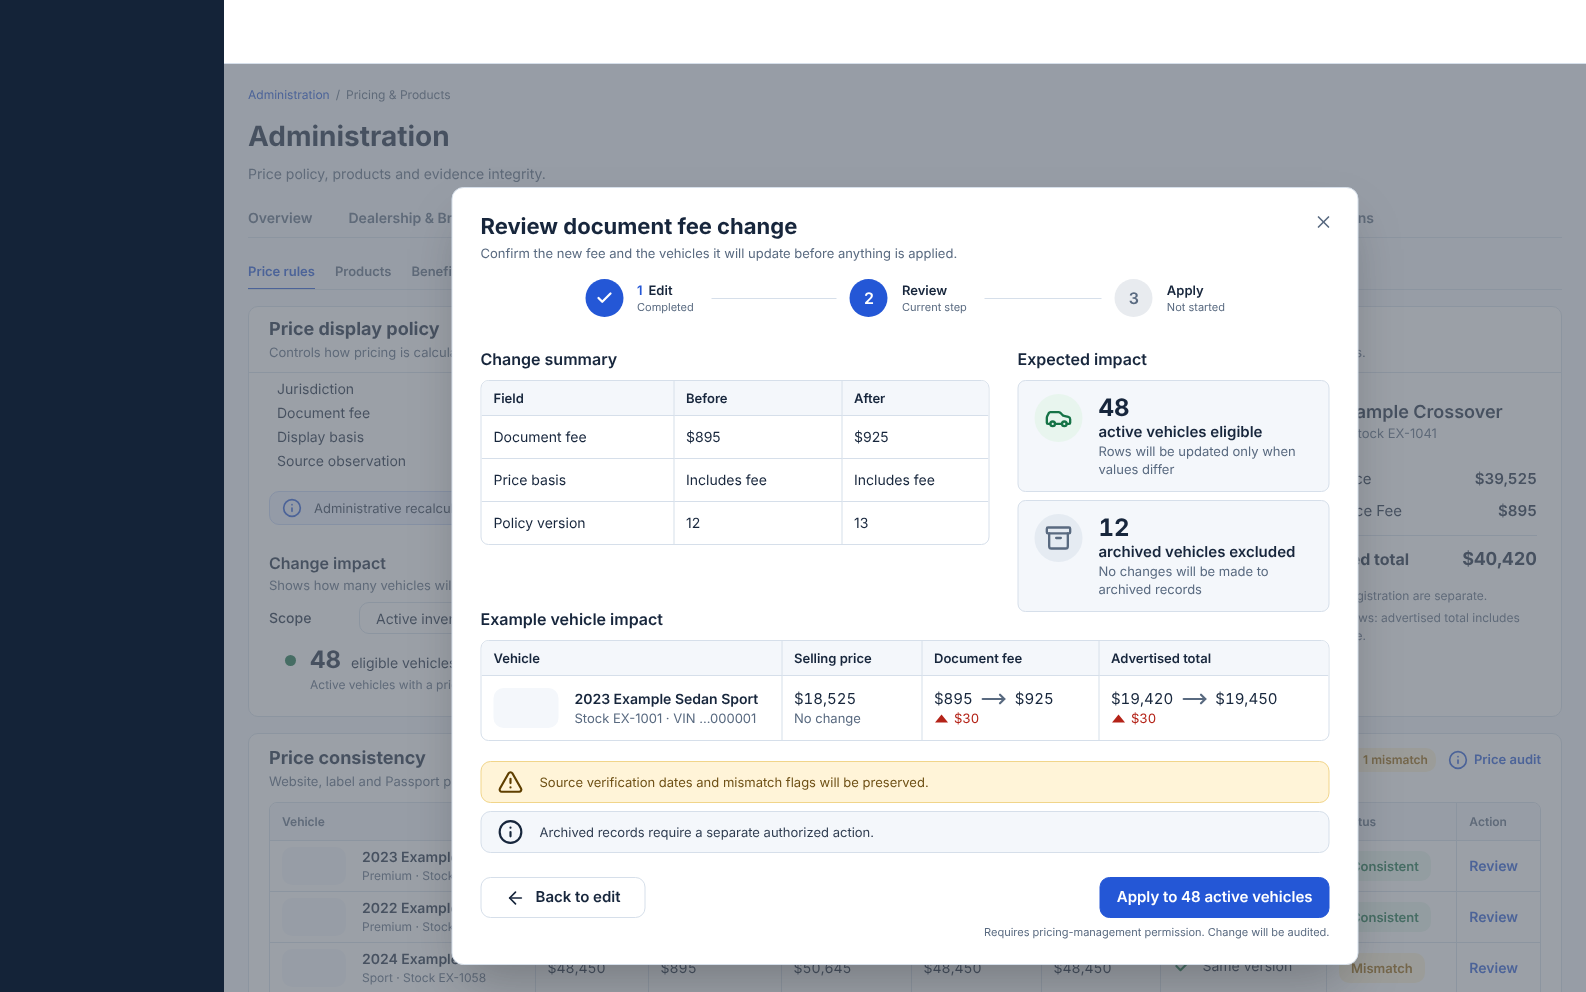
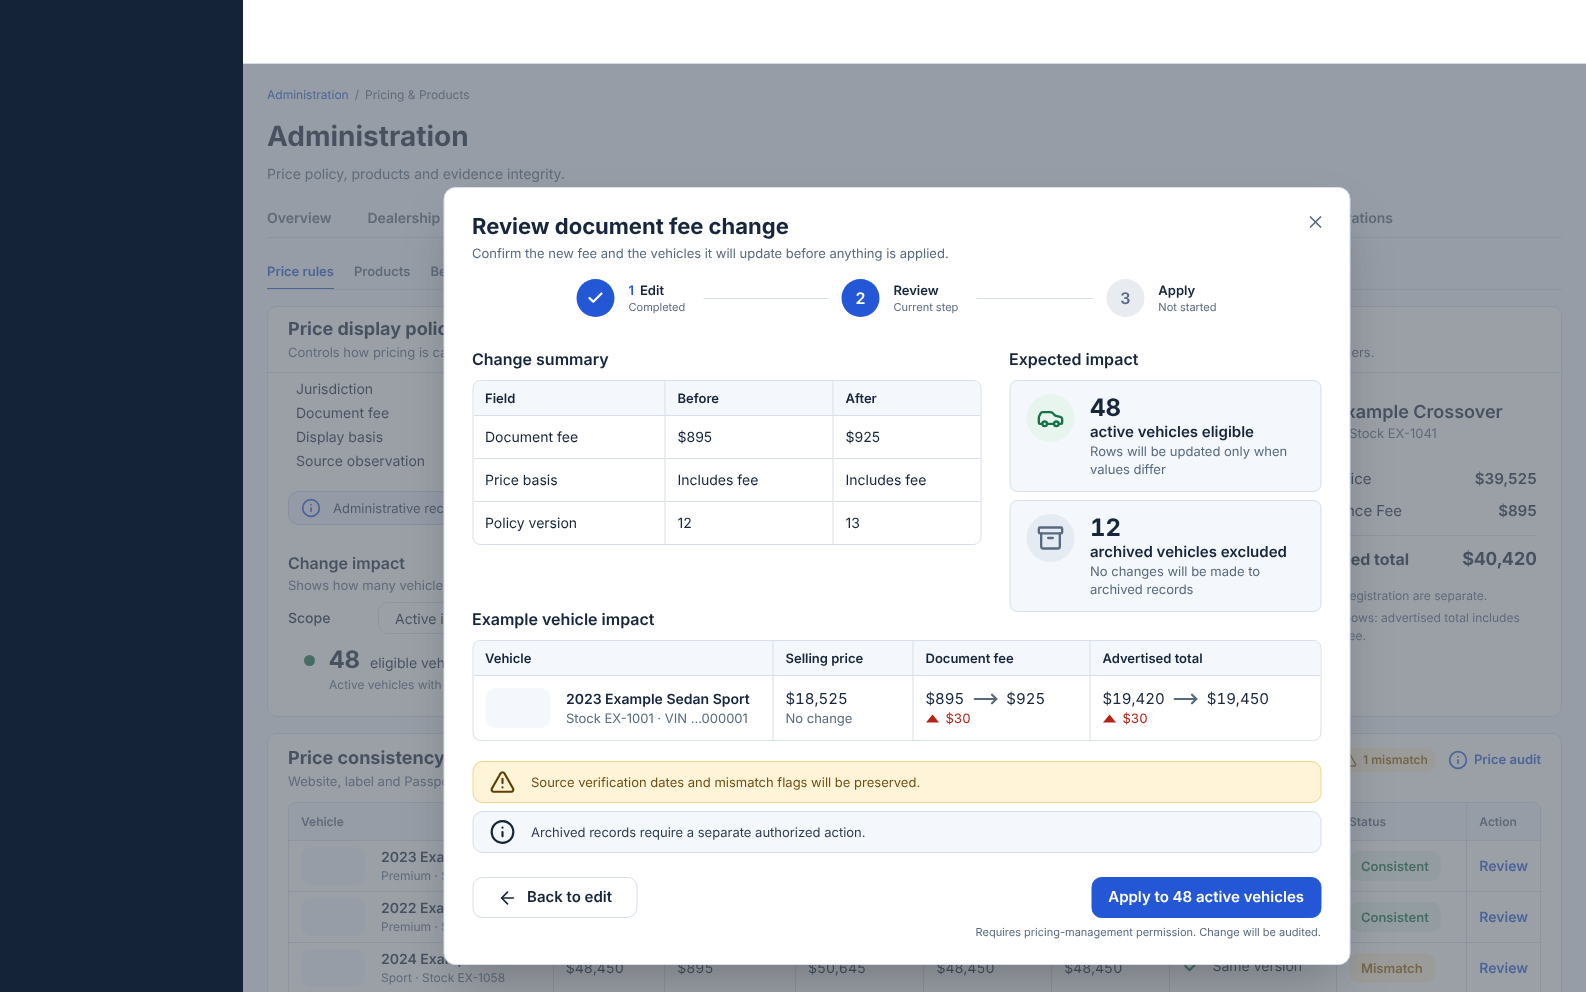
Size the fixture rail to each mock and offset the fee review as drawn
- The mocks draw their rail between 217 and 264px; landmarks.json carries each width, the fixture page draws its stand-in at it and the content region starts past it
- An empty landmark set reads as not declared instead of passing
- The fee review dialog sits 18px left of the content column centre on desktop, as the reference draws it

diff --git a/src/pages/admin/AdminDesignFixture.tsx b/src/pages/admin/AdminDesignFixture.tsx
@@ -1,5 +1,5 @@
 import { Suspense } from "react";
-import { useParams } from "react-router-dom";
+import { useParams, useSearchParams } from "react-router-dom";
 import { AdminFixtureProvider } from "@/lib/admin/dataSource";
 import { ADMIN_SECTIONS, resolveAdminTab } from "@/lib/admin/sections";
 import { AdminShell } from "@/components/admin/v2/AdminShell";
@@ -13,6 +13,10 @@ import { ADMIN_CHILD_ROUTE_ELEMENTS } from "@/pages/admin/childRoutes";
 
 export default function AdminDesignFixture() {
   const { screen } = useParams<{ screen: string }>();
+  const [search] = useSearchParams();
+  // The mocks draw their rail between 217 and 264px wide; the harness passes each
+  // mock's width so the content origin lines up. Default: the Overview mock.
+  const railWidth = Math.min(320, Math.max(160, Number(search.get("rail")) || 229));
   const entry = screen ? ADMIN_FIXTURES[screen] : undefined;
   if (!entry) {
     return (
@@ -47,7 +51,7 @@ export default function AdminDesignFixture() {
   return (
     <AdminFixtureProvider fixture={entry.fixture}>
       <div data-admin-fixture={screen} className="min-h-screen bg-adm-workspace flex">
-        <div className="hidden lg:block w-[224px] flex-shrink-0 bg-adm-sidebar" aria-hidden="true" />
+        <div className="hidden lg:block flex-shrink-0 bg-adm-sidebar" style={{ width: railWidth }} aria-hidden="true" />
         <div className="flex-1 min-w-0">
           <div className="h-16 border-b border-adm-border bg-adm-surface" aria-hidden="true" />
           <Suspense fallback={<div className="p-8 text-sm text-adm-muted">Loading fixture…</div>}>{content}</Suspense>

diff --git a/src/pages/admin/children/FeeReviewPage.tsx b/src/pages/admin/children/FeeReviewPage.tsx
@@ -304,6 +304,7 @@ function FeeReviewDialog({ fixture }: { fixture: FeeReviewFixture | null }) {
         )}
       </div>
       <div className="absolute inset-0 z-40 bg-[#626A75]/[0.64]" onClick={close} aria-hidden="true" />
+      {/* The reference draws the review 18px left of the content column centre on desktop; narrow widths centre it. */}
       <div aria-hidden="true" data-landmark="fee-review-top" className="absolute inset-x-0 top-0 pointer-events-none" style={{ height: DIALOG_TOP }} />
       <div
         ref={dialogRef}
@@ -313,7 +314,7 @@ function FeeReviewDialog({ fixture }: { fixture: FeeReviewFixture | null }) {
         tabIndex={-1}
         onKeyDown={onKeyDown}
         style={{ top: DIALOG_TOP }}
-        className="absolute z-50 left-1/2 -translate-x-1/2 w-[min(907px,calc(100%-32px))] rounded-[12px] border border-adm-border bg-adm-surface shadow-2xl outline-none px-7 pt-6 pb-6 text-adm-ink"
+        className="absolute z-50 left-1/2 -translate-x-1/2 lg:left-[calc(50%-18px)] w-[min(907px,calc(100%-32px))] rounded-[12px] border border-adm-border bg-adm-surface shadow-2xl outline-none px-7 pt-6 pb-6 text-adm-ink"
       >
         <header className="flex items-start justify-between gap-4">
           <div className="min-w-0">

diff --git a/ADMIN_V2_PARITY_REPORT.md b/ADMIN_V2_PARITY_REPORT.md
@@ -1,6 +1,6 @@
 # Administration V2 visual parity report
 
-Generated 2026-10-28T05:11:41.673Z by `bun run admin:parity` against the development fixture route. Every screen is a synthetic fixture rendered by the real Administration components; no production data appears in any capture.
+Generated 2026-10-28T05:49:25.111Z by `bun run admin:parity` against the development fixture route. Every screen is a synthetic fixture rendered by the real Administration components; no production data appears in any capture.
 
 ## Method
 
@@ -9,56 +9,59 @@ Generated 2026-10-28T05:11:41.673Z by `bun run admin:parity` against the develop
 - Pixel parity: a pixel differs when any channel moves by more than 32 of 255 after masks. Parity is 100 minus the differing share of compared pixels. No anti-aliasing allowance is applied.
 - Structure: mean SSIM over 8x8 luminance blocks after masks.
 - Masks: only dynamic data (counts, relative times, fixture names) listed in `scripts/admin-parity/masks.json`, read from the rendered DOM so the same boxes mask both images. Navigation, tabs, headings, card bounds, tables, buttons and chips are never masked.
-- Content region: x >= 232 and y >= 70, which excludes the product rail and product header. Those belong to the global application shell (`AppShell`), which this refresh does not restyle; the full-frame score includes them for completeness.
+- Content region: y >= 70 and x past the mock's rail (each screen's `_rail` in `scripts/admin-parity/landmarks.json`, 217 to 264px across the set; the fixture sizes its rail stand-in to the same number so the content origin lines up). The rail and the product header belong to the global application shell (`AppShell`, whose live rail is 256px), which this refresh does not restyle; the full-frame score includes them for completeness.
 - Landmarks: hand-measured boxes from the reference (`scripts/admin-parity/landmarks.json`, tolerance 16px) compared with the rendered DOM boxes. A `yBody` landmark is measured from the section-row bottom on both sides.
 - Body parity (aligned): the handoff's information architecture fixes one h1, "Administration", with a breadcrumb above it, while the mocks title their pages four different ways (section name as title, no breadcrumb, no description, a chip above the title). That title block is a documented exception: the body score shifts the reference so both section rows end on the same pixel row and scores everything below it in the content region, with the same masks. The offset is printed with the score and the raw content score stays the protocol number.
 - Responsive: 1920x1080, 1366x768, 1024x768 and 390x844 captured; a breakpoint passes when the document has no horizontal overflow and no element extends past the viewport.
 
 Registered fixtures: 10, 11, 12, 13, 01, 02, 03, 04, 05, 06, 07, 08, 09.
 
-## Screen 01
+## Screen 06
 
-Reference: `scripts/admin-parity/reference/01-admin-overview.png`. Fonts: Inter loaded (Inter). Gate: FAIL (content parity 90.50% is below 97%). With the title-block exception: FAIL (body parity 89.78%).
+Reference: `scripts/admin-parity/reference/06-fee-change-review-child.png`. Fonts: Inter loaded (Inter). Gate: FAIL (content parity 92.51% is below 97%). With the title-block exception: FAIL (body parity 92.32%).
 
 | Frame | Capture | Full parity | Full structure | Content parity | Content structure | Body parity (aligned) | Body structure | Masked |
 |---|---|---|---|---|---|---|---|---|
-| 1586x992 | `scripts/admin-parity/out/01-1586x992.png` | 90.70% | 70.48% | 90.50% | 68.17% | 89.78% (+0px) | 64.38% | 1.93% |
-| 1600x1000 | `scripts/admin-parity/out/01-1600x1000.png` | 90.65% | 71.92% | 90.74% | 69.84% | n/a | n/a | 1.92% |
+| 1586x992 | `scripts/admin-parity/out/06-1586x992.png` | 87.21% | 77.22% | 92.51% | 75.37% | 92.32% (+0px) | 74.92% | 3.82% |
+| 1600x1000 | `scripts/admin-parity/out/06-1600x1000.png` | 85.58% | 73.80% | 90.58% | 71.32% | n/a | n/a | 3.75% |
 
-Section row bottom: reference y=238, capture y=238 (title block offset +0px).
-Diff image: `scripts/admin-parity/out/01-1586x992-diff.png` (red differs, blue masked).
-Committed copies of that capture and diff: `scripts/admin-parity/evidence/01-1586x992.png` and `scripts/admin-parity/evidence/01-1586x992-diff.png`.
+Rail stand-in: 243px (the mock's rail width); content region starts at x=246.
+Body anchor (pinned in landmarks.json): reference y=187, capture y=187 (title block offset +0px).
+Diff image: `scripts/admin-parity/out/06-1586x992-diff.png` (red differs, blue masked).
+Committed copies of that capture and diff: `scripts/admin-parity/evidence/06-1586x992.png` and `scripts/admin-parity/evidence/06-1586x992-diff.png`.
 
-Masks (8): summary tile counts; recent activity relative times.
+Masks (5): expected impact counts (fixture inventory sizes); example vehicle name, stock, VIN suffix, selling price and totals (fixture vehicle); the fee column is policy data and stays.
 
 | Landmark | Result | Expected | Measured | Delta |
 |---|---|---|---|---|
-| breadcrumb | within tolerance | x=249 y=86 | x=248 y=86 yBody=-152 w=1314 h=18 | x-1 y+0 |
-| title | within tolerance | x=249 y=116 h=40 | x=248 y=116 yBody=-122 w=1314 h=40 | x-1 y+0 h+0 |
-| sectionNav | within tolerance | x=249 y=200 w=1317 h=38 | x=248 y=200 yBody=-38 w=1314 h=38 | x-1 y+0 w-3 h+0 |
-| banner | within tolerance | x=249 y=254 w=1317 h=58 | x=248 y=254 yBody=16 w=1314 h=58 | x-1 y+0 w-3 h+0 |
-| tile1 | within tolerance | x=249 y=326 w=313 h=79 | x=248 y=326 yBody=88 w=317 h=80 | x-1 y+0 w+4 h+1 |
-| tile4 | within tolerance | x=1235 y=326 w=331 h=79 | x=1246 y=326 yBody=88 w=317 h=80 | x+11 y+0 w-14 h+1 |
-| attentionCard | within tolerance | x=249 y=420 w=889 | x=248 y=422 yBody=184 w=887 h=318 | x-1 y+2 w-2 |
-| policyCard | within tolerance | x=1152 y=420 w=414 | x=1149 y=422 yBody=184 w=413 h=549 | x-3 y+2 w-1 |
-| settingsCard | within tolerance | x=249 y=748 w=603 | x=248 y=756 yBody=518 w=601 h=215 | x-1 y+8 w-2 |
-| activityCard | within tolerance | x=862 y=748 w=276 | x=859 y=756 yBody=518 w=276 h=215 | x-3 y+8 w+0 |
+| dialog | within tolerance | x=443 yBody=0 w=907 h=776 | x=443 y=187 yBody=0 w=907 h=778 | x+0 w+0 h+2 yBody+0 |
+| title | within tolerance | x=471 yBody=24 h=28 | x=472 y=212 yBody=25 w=477 h=28 | x+1 h+0 yBody+1 |
+| step1 | within tolerance | x=586 yBody=91 h=38 | x=577 y=279 yBody=92 w=109 h=38 | x-9 h+0 yBody+1 |
+| step3 | within tolerance | x=1104 yBody=91 h=38 | x=1106 y=279 yBody=92 w=110 h=38 | x+2 h+0 yBody+1 |
+| summaryTable | within tolerance | x=471 yBody=191 w=512 h=160 | x=473 y=381 yBody=194 w=507 h=163 | x+2 w-5 h+3 yBody+3 |
+| impactTile1 | within tolerance | x=1011 yBody=192 w=312 h=112 | x=1009 y=380 yBody=193 w=312 h=112 | x-2 w+0 h+0 yBody+1 |
+| impactTile2 | within tolerance | x=1011 yBody=312 w=312 h=112 | x=1009 y=500 yBody=313 w=312 h=112 | x-2 w+0 h+0 yBody+1 |
+| exampleTable | within tolerance | x=471 yBody=456 w=852 h=99 | x=473 y=641 yBody=454 w=847 h=99 | x+2 w-5 h+0 yBody-2 |
+| warningNote | within tolerance | x=471 yBody=574 w=852 h=41 | x=472 y=761 yBody=574 w=849 h=42 | x+1 w-3 h+1 yBody+0 |
+| backButton | within tolerance | x=471 yBody=688 w=156 h=41 | x=472 y=877 yBody=690 w=165 h=41 | x+1 w+9 h+0 yBody+2 |
+| applyButton | within tolerance | x=1092 yBody=688 w=231 h=41 | x=1091 y=877 yBody=690 w=230 h=41 | x-1 w-1 h+0 yBody+2 |
 
 | Viewport | Page overflow | scrollWidth | innerWidth | Widest fixed element | Scroll regions | Capture |
 |---|---|---|---|---|---|---|
-| 1920x1080 | none | 1920 | 1920 | 1848 | none | `scripts/admin-parity/out/01-1920x1080.png` |
-| 1366x768 | none | 1366 | 1366 | 1342 | nav[Administration sections] | `scripts/admin-parity/out/01-1366x768.png` |
-| 1024x768 | none | 1024 | 1024 | 1000 | nav[Administration sections] | `scripts/admin-parity/out/01-1024x768.png` |
-| 390x844 | none | 390 | 390 | 374 | nav[Administration sections], div | `scripts/admin-parity/out/01-390x844.png` |
+| 1920x1080 | none | 1920 | 1920 | 1858 | none | `scripts/admin-parity/out/06-1920x1080.png` |
+| 1366x768 | none | 1366 | 1366 | 1342 | nav[Administration sections], div | `scripts/admin-parity/out/06-1366x768.png` |
+| 1024x768 | none | 1024 | 1024 | 1000 | nav[Administration sections], div | `scripts/admin-parity/out/06-1024x768.png` |
+| 390x844 | none | 390 | 390 | 374 | nav[Administration sections], div | `scripts/admin-parity/out/06-390x844.png` |
 
-### Findings for screen 01
+### Findings for screen 06
 
-- Composition is the gate failure. The reference lays the body out as two columns: a left column (x 249 to 1138) holding What needs attention (y 420 to about 722) above Administration settings (x 249, width 603) and Recent activity (x 862, width 276) side by side at y 748, and a right column holding Effective policy (x 1152, width 414) from y 420 to the bottom of that row at about 955. OverviewView.tsx renders two stacked full-width grids instead: attention beside policy, then settings beside activity. That puts the second row at y 851 against 748 (delta +103), stretches Administration settings to 974px against 603, and moves Recent activity to x 1238 against 862. Owner: OverviewView.tsx (keystone, parent stream).
-- Measured fix, not applied on this branch because the files are outside this stream's ownership: scripts/admin-parity/proposals/01-overview-composition.patch rebuilds the body as that two-column composition (outer grid 2.15fr to 1fr with a 14px gap, inner grid 2.18fr to 1fr with a 10px gap). With it applied every card landmark lands within 3px on x and width: attention x 248 w 887, policy x 1149 w 413, settings x 248 w 601, activity x 859 w 276. The remaining deltas are vertical: the cards start at y 440 against 420 (+20, from the header block) and the second row at y 811 against 748 (+63). The +63 is the attention card's height, 355px rendered against about 302px in the reference, whose four rows are about 53px tall under a 40px header row with no padding below the table.
-- Header block (AdminShell.tsx, parent stream): the keystone places the section row at y 184 against 200 (delta -16, at the tolerance edge) and renders the title at a 36px line height against 40px. The same patch sets the h1 to margin-top 16px and line height 40px, the description to margin-top 6px and the section gap to 36px, which measured the title at y 122 (+6) and the section row at y 204 (+4) at the reference height. The banner and tiles then sit 10 to 12px low instead of 8 to 10px high; the tile row is 79px tall in the reference against 86px rendered.
-- Stat tiles: the four tiles render at equal 317px widths; the reference measures 313px for the first three and 331px for the last, so tile 4 starts at x 1246 against 1235 (+11). Within tolerance.
-- Pixel parity stayed at 88.66% with the composition patch applied (88.64% without) because the remaining difference is inside the cards, where the diff image is red: row heights and the status chip column in What needs attention, the row rhythm of Effective policy (about 88px per row in the reference), the 3 by 2 shortcut grid of Administration settings (tiles about 186 by 70px), Recent activity row spacing, and glyph-level rendering of Inter by Chromium against the reference renderer, which keeps even matching text from scoring as identical pixels. Structure (63.34%) will move before pixel parity does; re-measure after each internal fix.
-- Responsive: 390x844 fails on page overflow (scrollWidth 442 against 390, widest fixed element at 416) because the fixture page draws its 224px rail stand-in at every width, while the product AppShell hides its rail below the lg breakpoint. With the stand-in hidden below lg (the one-line AdminDesignFixture.tsx hunk in the same patch) the keystone view and shell have no page overflow at 390: scrollWidth 390, widest fixed element 374, with the section row and the attention table scrolling inside their own containers by design. 1024x768 passes; its only scroll region is the section row. 1920x1080 and 1366x768 pass with no scroll regions. Every breakpoint renders exactly one h1.
+- Decision: the fee review stays a child route (/admin/pricing/fee-review) and renders the mock's dialog over the Price rules page. The shared ReviewDialog centres its panel vertically inside a fixed, full-viewport scrim with a 900px cap and 24px body padding, so the mock's geometry (dialog x 443-1350, y 187-962, dimming only the workspace) cannot be reached through it; the frame is built in FeeReviewPage.tsx instead: a scrim limited to the content column, a 907px panel placed 123px under the product header (y 187 in the reference frame) and centred in the content column (x 452 against 443), 28px side padding, a 22/28 title, a three-step stepper with 38px circles, Change summary (512px table, 34px header, 42px rows, column lines) beside Expected impact (two 312x112 tiles with 48px tinted circles and 28px glyphs), one example vehicle row (35px header, 62px row), two 42px notes, and a footer with Back to edit and Apply (41px) over an 11px permission note. Every landmark is within tolerance; the dialog measures 778px tall against 776.
+- Scrim: the mock dims the page to about #979DA6 over the workspace and #9A9FA8 over white, which a navy overlay cannot reproduce (the previous #0B1A33 at 55 percent gave #747D8D, 40 or more per channel off, so every dimmed background pixel scored as different). The scrim is #626A75 at 64 percent, which lands within 4 per channel on both; dimmed text differs where the layouts differ.
+- Body anchor: the mock has no section row the detector can find (the underline is dimmed), so the body row is pinned to the dialog top. The view marks that row with a zero-height element (data-landmark='fee-review-top') whose bottom is the dialog top, giving an offset of 0; the body score is the content region from y 187 down. Before this pass: content 50.79, no body score, no landmarks. After: content 90.50, body 90.14 (offset 0), landmarks all within tolerance (the largest deltas are x +11 on the left column and h +3 on the summary table).
+- Fixture and tests: the review fixture uses the fee-inclusive basis and a sample size of 1 (the mock shows one example vehicle; the live preview keeps the routine's default of three), and its listing rows carry no parser warnings (the extra warning note added 50px the mock does not draw). The 06 fixture test's row count moved from 4 to 2 accordingly; behaviour, Apply gating, the role check, the no-write-on-mount and the fallback-routine tests are unchanged. The summary table lists changed fields plus the price basis (the mock's three rows); an unchanged jurisdiction is not repeated.
+- Remaining difference: the page behind the scrim is the mock's older Pricing & Products layout (a vertical sub-navigation, an 'Edit document fee' button and a policy-version card) against our Price rules page, so the dimmed text differs wherever the two layouts put text; the stepper lines are equal here (about 108px) where the mock draws 95 and 119; label widths differ with the renderer; the Apply button reads 48 against the mock's 128.
+- Type scale against the tokens: dialog title 22/28 bold (the mock's ink is 22px), subtitle 13/18, step labels 13/18 semibold over 11/16, section headings 16/22 semibold (token section 18/26; the mock's ink is 15px), table headers 13px ink (token meta 12 muted), tile numbers 24/28 (token stat 28/34), tile labels 15/20 semibold, hints 13/18, example row name 14/20 semibold (mock 15; widened column 300px so the fixture's longer name does not wrap), buttons 15px, footnote 11px. Icons: close 20px (mock ink 13), step check 18px at stroke 3, step digits 16px, tile glyphs 28px (mock ink 22-23), price arrow 26px (mock 22x13), delta triangles 14x9, note icons 26px (mock 21), Back to edit arrow 20px (mock 14x12).
+- Shared-file request (src/components/admin/v2/ReviewDialog.tsx): a placement prop (items-start with a configurable top offset, scrim limited to the content column) and a width prop would let this page use the primitive; the mock needs top 187, width 907 and 28px padding, none of which the primitive exposes.
 
 ## Findings across screens
 
